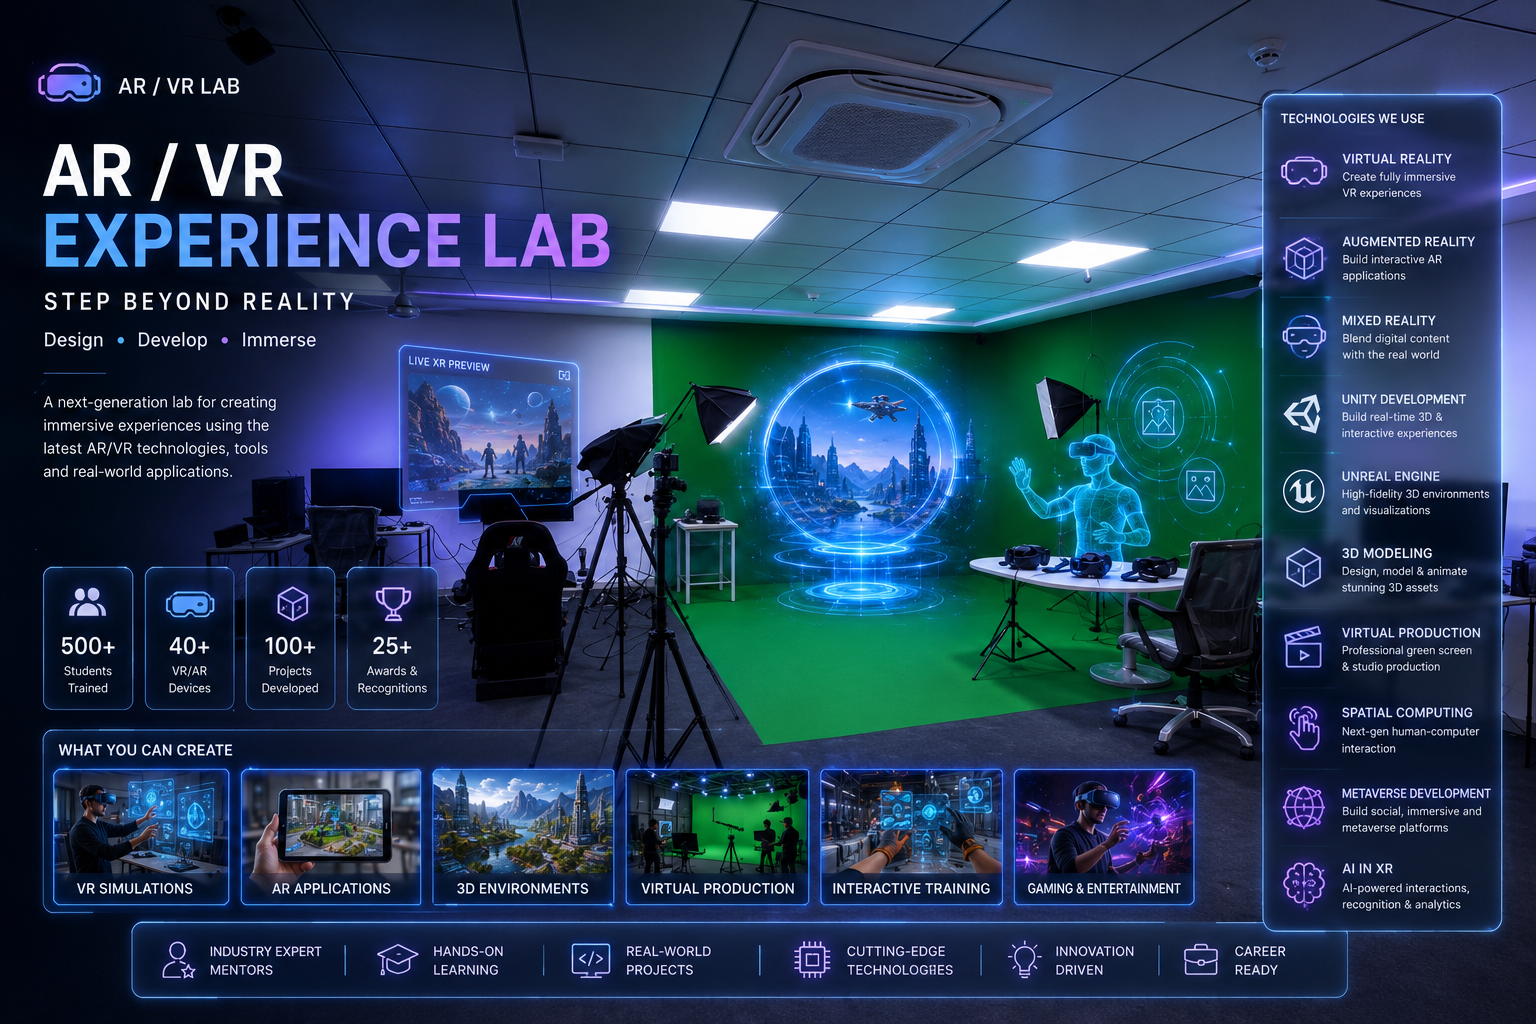
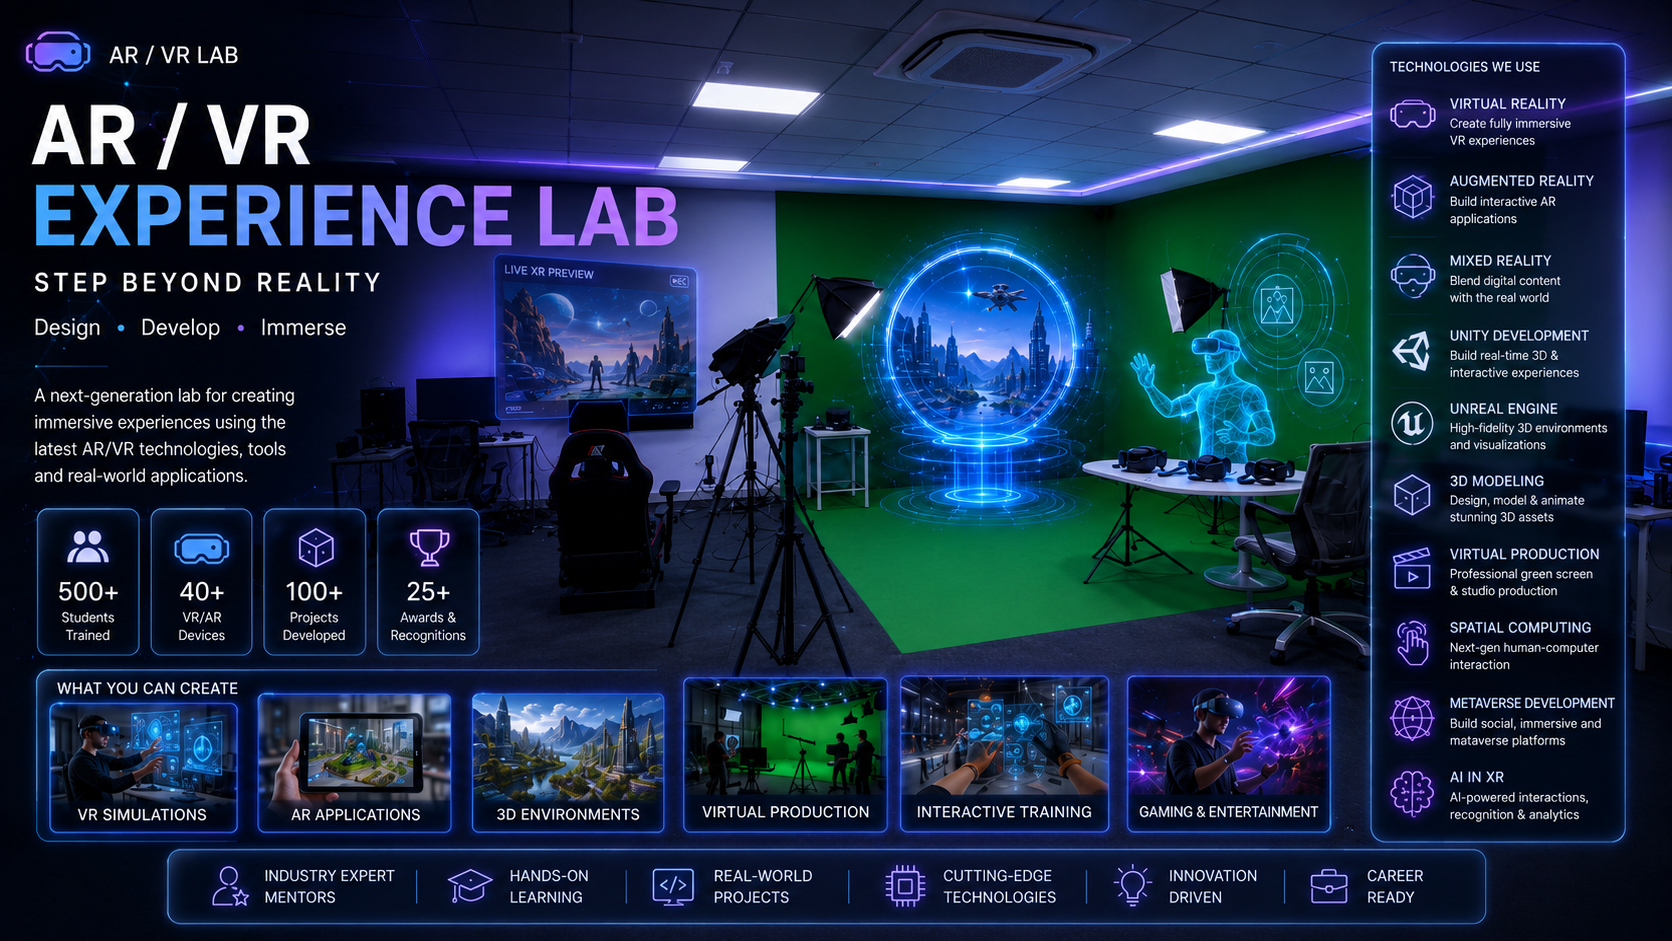
ok

diff --git a/Frontend/src/components/PlatformInsights.css b/Frontend/src/components/PlatformInsights.css
@@ -1,0 +1,94 @@
+.insights-section {
+  background: #0d0d0d;
+  padding: 80px 32px;
+  width: 100%;
+  box-sizing: border-box;
+}
+
+.insights-header {
+  text-align: center;
+  margin-bottom: 56px;
+}
+
+.insights-eyebrow {
+  font-size: 11px;
+  font-weight: 700;
+  letter-spacing: 3px;
+  text-transform: uppercase;
+  color: #666;
+  margin: 0 0 14px;
+}
+
+.insights-title {
+  font-size: clamp(36px, 5vw, 64px);
+  font-weight: 900;
+  color: #ffffff;
+  letter-spacing: -1.5px;
+  margin: 0 0 16px;
+  line-height: 1;
+}
+
+.insights-subtitle {
+  font-size: 15px;
+  color: #777;
+  margin: 0;
+}
+
+.insights-grid {
+  display: grid;
+  grid-template-columns: repeat(4, 1fr);
+  gap: 16px;
+  max-width: 1280px;
+  margin: 0 auto;
+}
+
+@media (max-width: 900px) {
+  .insights-grid {
+    grid-template-columns: repeat(2, 1fr);
+  }
+}
+
+@media (max-width: 480px) {
+  .insights-grid {
+    grid-template-columns: 1fr;
+  }
+}
+
+.insights-card {
+  background: #1a1a1a;
+  border: 1px solid #2a2a2a;
+  border-radius: 14px;
+  padding: 32px 28px;
+  display: flex;
+  flex-direction: column;
+  align-items: flex-start;
+  gap: 12px;
+}
+
+.insights-icon {
+  background: #252525;
+  border-radius: 10px;
+  width: 44px;
+  height: 44px;
+  display: flex;
+  align-items: center;
+  justify-content: center;
+  color: #fff;
+  margin-bottom: 8px;
+}
+
+.insights-value {
+  font-size: clamp(40px, 4vw, 56px);
+  font-weight: 900;
+  color: #ffffff;
+  line-height: 1;
+  letter-spacing: -1px;
+}
+
+.insights-label {
+  font-size: 11px;
+  font-weight: 700;
+  letter-spacing: 2px;
+  text-transform: uppercase;
+  color: #555;
+}

diff --git a/Frontend/src/components/PlatformInsights.tsx b/Frontend/src/components/PlatformInsights.tsx
@@ -1,0 +1,70 @@
+const stats = [
+  {
+    icon: (
+      <svg width="22" height="22" viewBox="0 0 24 24" fill="none" stroke="currentColor" strokeWidth="1.8" strokeLinecap="round" strokeLinejoin="round">
+        <path d="M17 21v-2a4 4 0 0 0-4-4H5a4 4 0 0 0-4 4v2" />
+        <circle cx="9" cy="7" r="4" />
+        <path d="M23 21v-2a4 4 0 0 0-3-3.87" />
+        <path d="M16 3.13a4 4 0 0 1 0 7.75" />
+      </svg>
+    ),
+    value: '86+',
+    label: 'REGISTERED USERS',
+  },
+  {
+    icon: (
+      <svg width="22" height="22" viewBox="0 0 24 24" fill="none" stroke="currentColor" strokeWidth="1.8" strokeLinecap="round" strokeLinejoin="round">
+        <path d="M9 3H5a2 2 0 0 0-2 2v4m6-6h10a2 2 0 0 1 2 2v4M9 3v18m0 0h10a2 2 0 0 0 2-2v-4M9 21H5a2 2 0 0 1-2-2v-4m0 0h18" />
+        <circle cx="12" cy="12" r="3" />
+      </svg>
+    ),
+    value: '13',
+    label: 'ACTIVE LABS',
+  },
+  {
+    icon: (
+      <svg width="22" height="22" viewBox="0 0 24 24" fill="none" stroke="currentColor" strokeWidth="1.8" strokeLinecap="round" strokeLinejoin="round">
+        <rect x="3" y="4" width="18" height="18" rx="2" ry="2" />
+        <line x1="16" y1="2" x2="16" y2="6" />
+        <line x1="8" y1="2" x2="8" y2="6" />
+        <line x1="3" y1="10" x2="21" y2="10" />
+        <path d="M9 16l2 2 4-4" />
+      </svg>
+    ),
+    value: '2+',
+    label: 'BOOKINGS MADE',
+  },
+  {
+    icon: (
+      <svg width="22" height="22" viewBox="0 0 24 24" fill="none" stroke="currentColor" strokeWidth="1.8" strokeLinecap="round" strokeLinejoin="round">
+        <path d="M17 21v-2a4 4 0 0 0-4-4H5a4 4 0 0 0-4 4v2" />
+        <circle cx="9" cy="7" r="4" />
+        <path d="M23 21v-2a4 4 0 0 0-3-3.87" />
+        <path d="M16 3.13a4 4 0 0 1 0 7.75" />
+      </svg>
+    ),
+    value: '3+',
+    label: 'ACTIVE TEAMS',
+  },
+]
+
+export default function PlatformInsights() {
+  return (
+    <section className="insights-section">
+      <div className="insights-header">
+        <p className="insights-eyebrow">BY THE NUMBERS</p>
+        <h2 className="insights-title">PLATFORM INSIGHTS</h2>
+        <p className="insights-subtitle">Real-time metrics from across the Lakshya 2047 ecosystem.</p>
+      </div>
+      <div className="insights-grid">
+        {stats.map(stat => (
+          <div className="insights-card" key={stat.label}>
+            <div className="insights-icon">{stat.icon}</div>
+            <span className="insights-value">{stat.value}</span>
+            <span className="insights-label">{stat.label}</span>
+          </div>
+        ))}
+      </div>
+    </section>
+  )
+}

diff --git a/Frontend/src/App.tsx b/Frontend/src/App.tsx
@@ -1,9 +1,11 @@
 import Navbar from './components/Navbar'
 import Hero from './components/Hero'
 import LabsSection from './components/LabsSection'
+import PlatformInsights from './components/PlatformInsights'
 import './components/Navbar.css'
 import './components/Hero.css'
 import './components/LabsSection.css'
+import './components/PlatformInsights.css'
 
 function App() {
   return (
@@ -11,6 +13,7 @@ function App() {
       <Navbar />
       <Hero />
       <LabsSection />
+      <PlatformInsights />
     </>
   )
 }